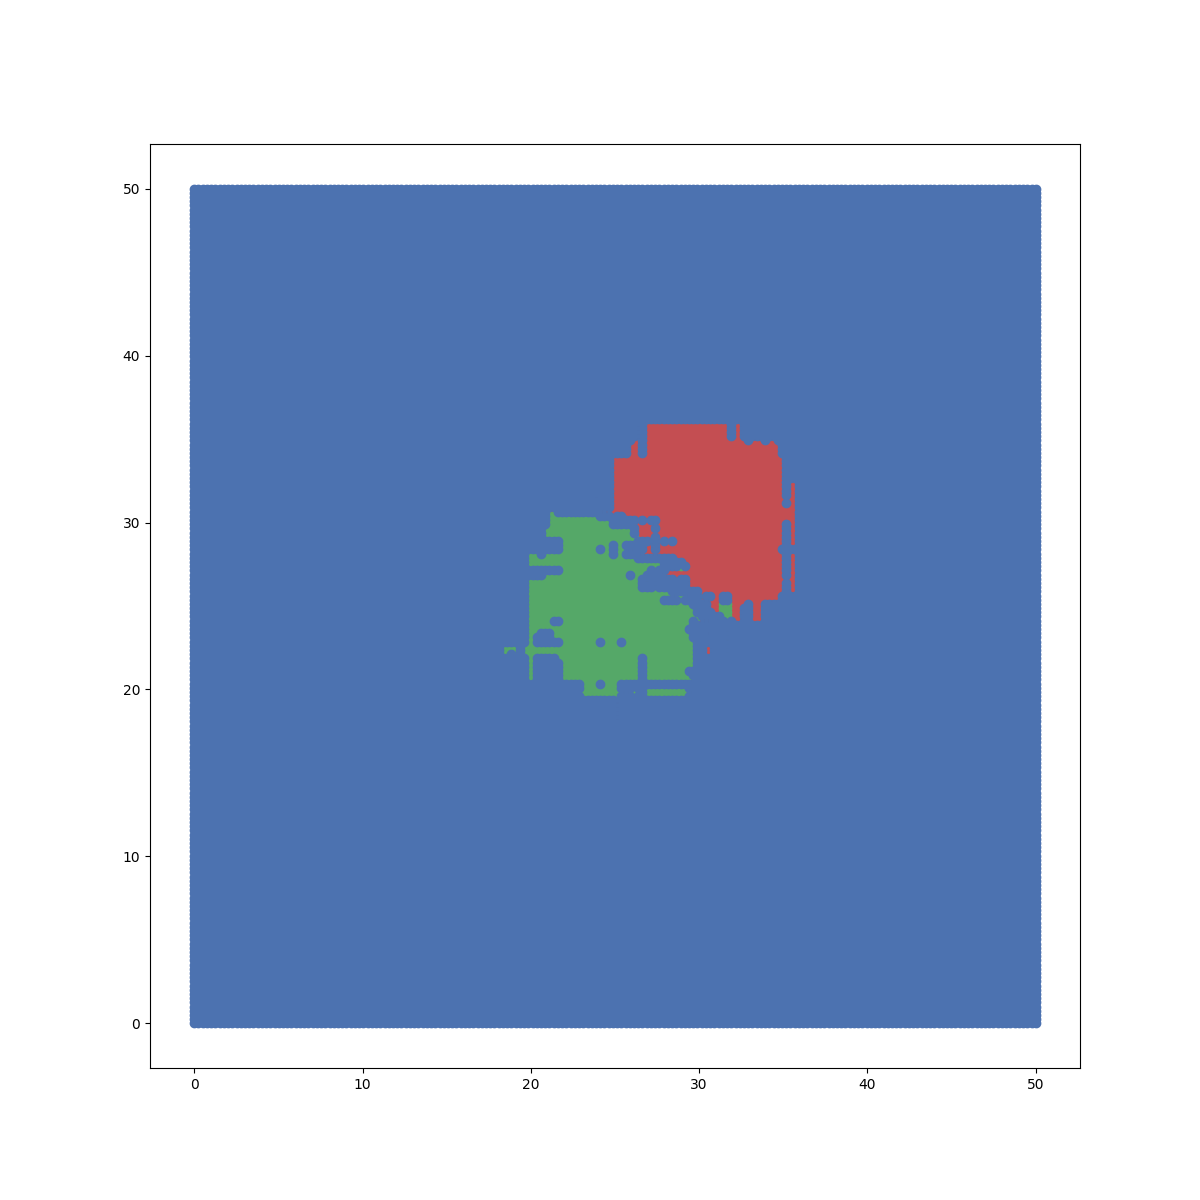
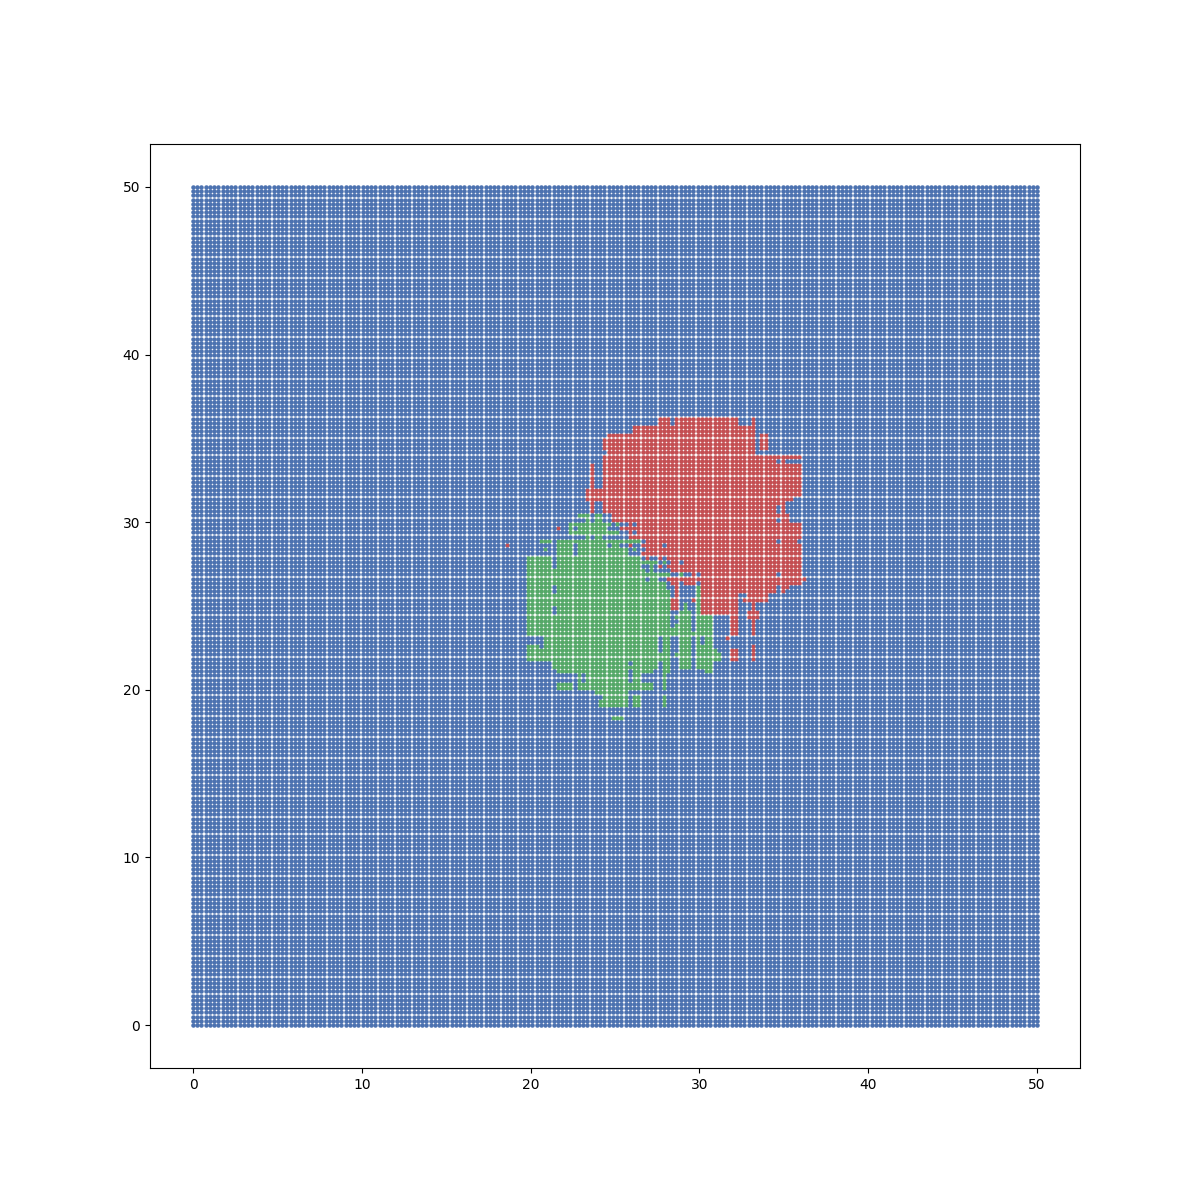
update plots

Changed region(s): [[0.1542, 0.1542, 0.8633, 0.8633]]

diff --git a/xgb_confidence.py b/xgb_confidence.py
@@ -91,11 +91,11 @@ def plot_heat_map(prediction, filename):
 
 def plot_decision_boundaries(x, prediction, threshold0, threshold1, filename):
     group0 = prediction <= threshold0
-    plt.scatter(x[group0, 0], x[group0, 1], color='r')
+    plt.scatter(x[group0, 0], x[group0, 1], s=5, color='r')
     group1 = prediction >= threshold1
-    plt.scatter(x[group1, 0], x[group1, 1], color='g')
+    plt.scatter(x[group1, 0], x[group1, 1], s=5, color='g')
     group_ood = (threshold0 < prediction) & (prediction < threshold1)
-    plt.scatter(x[group_ood, 0], x[group_ood, 1], color='b')
+    plt.scatter(x[group_ood, 0], x[group_ood, 1], s=5, color='b')
     fig = plt.gcf()
     fig.set_size_inches(12, 12)
     plt.savefig(filename)
@@ -112,6 +112,7 @@ def plot_data(x, y):
     fig = plt.gcf()
     fig.set_size_inches(12, 12)
     plt.savefig('data/data.png')
+    plt.close()
 
 
 def test_classifiers():
